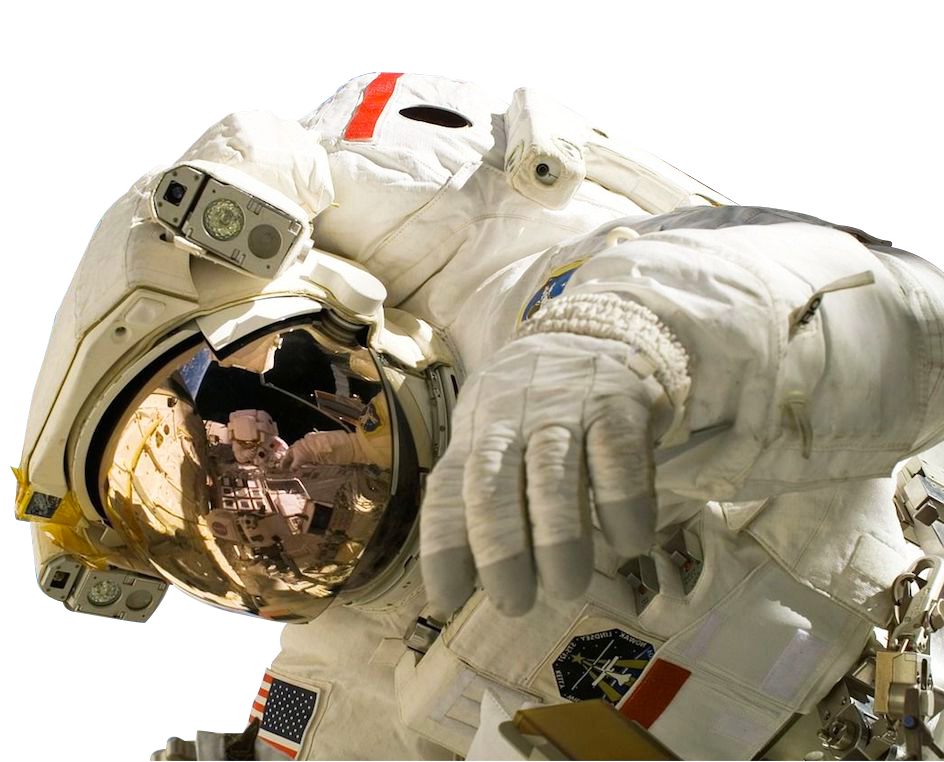
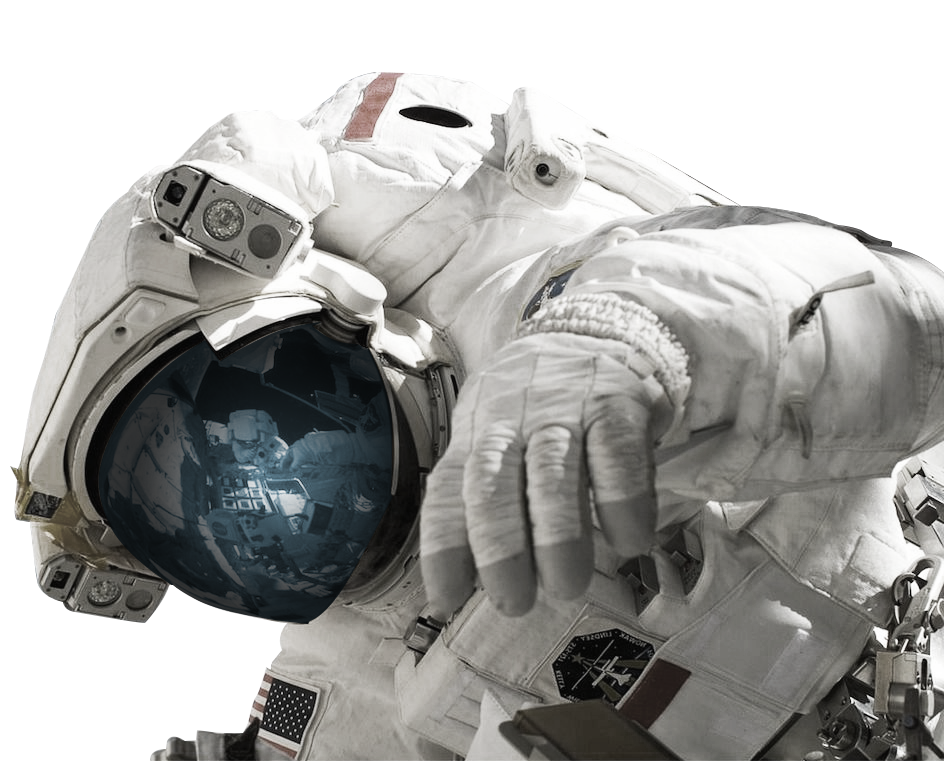
update images colors

diff --git a/styles/style.css b/styles/style.css
@@ -66,7 +66,6 @@ body {
     display: block;
     width: 100%;
     height: calc(100% + 1px);
-    display: none;
     z-index: 8;
     overflow: hidden;
     background-image: url(../images/bck.png);
@@ -173,6 +172,8 @@ body .slider {
       right: 0;
       text-align: right;
       margin-top: 5em; }
+    body .slider .slide .links-box:hover {
+      cursor: pointer; }
     body .slider .slide .links-box:hover .block {
       animation: translatebox 2s ease-in;
       transform-origin: right; }
@@ -458,6 +459,8 @@ body .slider .slide1 {
     left: 10%; } }
 .slider .slide3 {
   z-index: 2; }
+  .slider .slide3 .links-box {
+    top: 70%; }
   .slider .slide3 .dragon {
     width: 17em;
     position: absolute;
@@ -727,7 +730,7 @@ body .slider .slide1 {
   .slider .slide6 .robot {
     position: absolute;
     width: 20%;
-    bottom: 38%;
+    bottom: 35%;
     left: -1%;
     animation: headrotate 5s infinite; }
 @keyframes headrotate {

diff --git a/index.html b/index.html
@@ -13,7 +13,7 @@
   <meta name="theme-color" content="#ffffff">
   <link rel="stylesheet" href="styles/reset.css">
   <link rel="stylesheet" href="styles/style.css">
-  <title>Mars 2022 - SpaceX</title>
+  <title>MARS 2022 - SpaceX</title>
 </head>
 
 <body>
@@ -160,12 +160,6 @@
       <img src="images/astro2.png" alt="astronaute" class="astro">
       <img src="images/robot.png" alt="astronaute" class="robot_body">
       <img src="images/headRobot.png" alt="astronaute" class="robot">
-<<<<<<< HEAD
-=======
-      <div data-pointer-events='true' data-selector='.layer1' class="parallax4">
-      <img data-depth="0.4" class='layer1' src="images/astro2.png" alt="astronaute">
-    </div>
->>>>>>> origin/master
       <div class="maintext">
         <h1>Une cité autonome selon Musk</h1>
         <p>« Je pense que la chose la plus importante est de créer une ville autonome sur Mars. C’est essentiel pour maximiser

diff --git a/script/main.js b/script/main.js
@@ -357,7 +357,7 @@ window.addEventListener('mousewheel', (e) => {
       // Moving down the text
       for (const textMission of textMissions) {
         console.log(textpos)
-        if (textpos <= 300) {
+        if (textpos <= 400) {
           textpos += 20
           textMission.style.transform = `translateY(${textpos}px)`
           // Second text appearing if the first is down

diff --git a/styles/scss/mainpage.scss b/styles/scss/mainpage.scss
@@ -27,7 +27,6 @@ body {
     display: block;
     width: 100%; // Hack in order to get scroll event still working
     height: calc(100% + 1px);
-    display: none;
     z-index: 8;
     overflow: hidden;
     background-image: url(../images/bck.png);

diff --git a/styles/scss/slider.scss b/styles/scss/slider.scss
@@ -39,6 +39,11 @@ body{
       margin-top: 5em;
     }
 
+    .links-box:hover
+    {
+      cursor: pointer;
+    }
+    
     .links-box:hover .block
     {
       animation: translatebox 2s ease-in;

diff --git a/styles/scss/slide6.scss b/styles/scss/slide6.scss
@@ -19,7 +19,7 @@
       {
         position: absolute;
         width: 20%;
-        bottom: 38%;
+        bottom: 35%;
         left: -1%;
         animation: headrotate 5s infinite;
       }

diff --git a/styles/scss/slide3.scss b/styles/scss/slide3.scss
@@ -1,6 +1,10 @@
 .slider {
   .slide3 {
     z-index: 2;
+    .links-box
+    {
+      top: 70%;
+    }
     .dragon {
       width: 17em;
       position: absolute;
